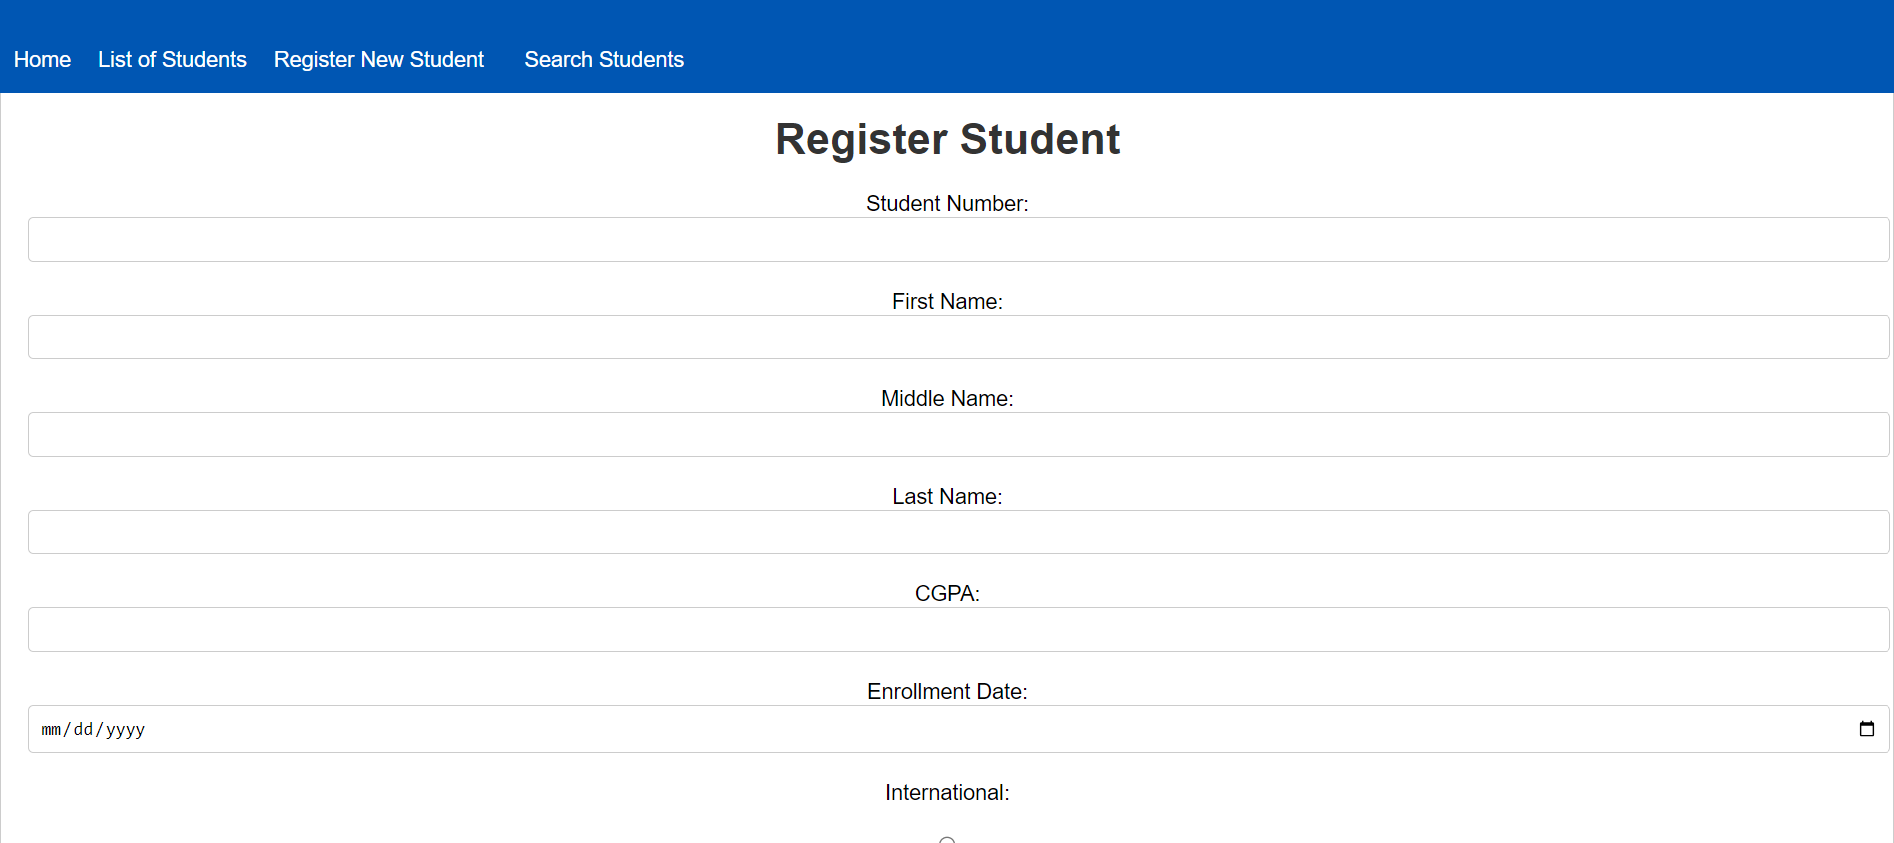
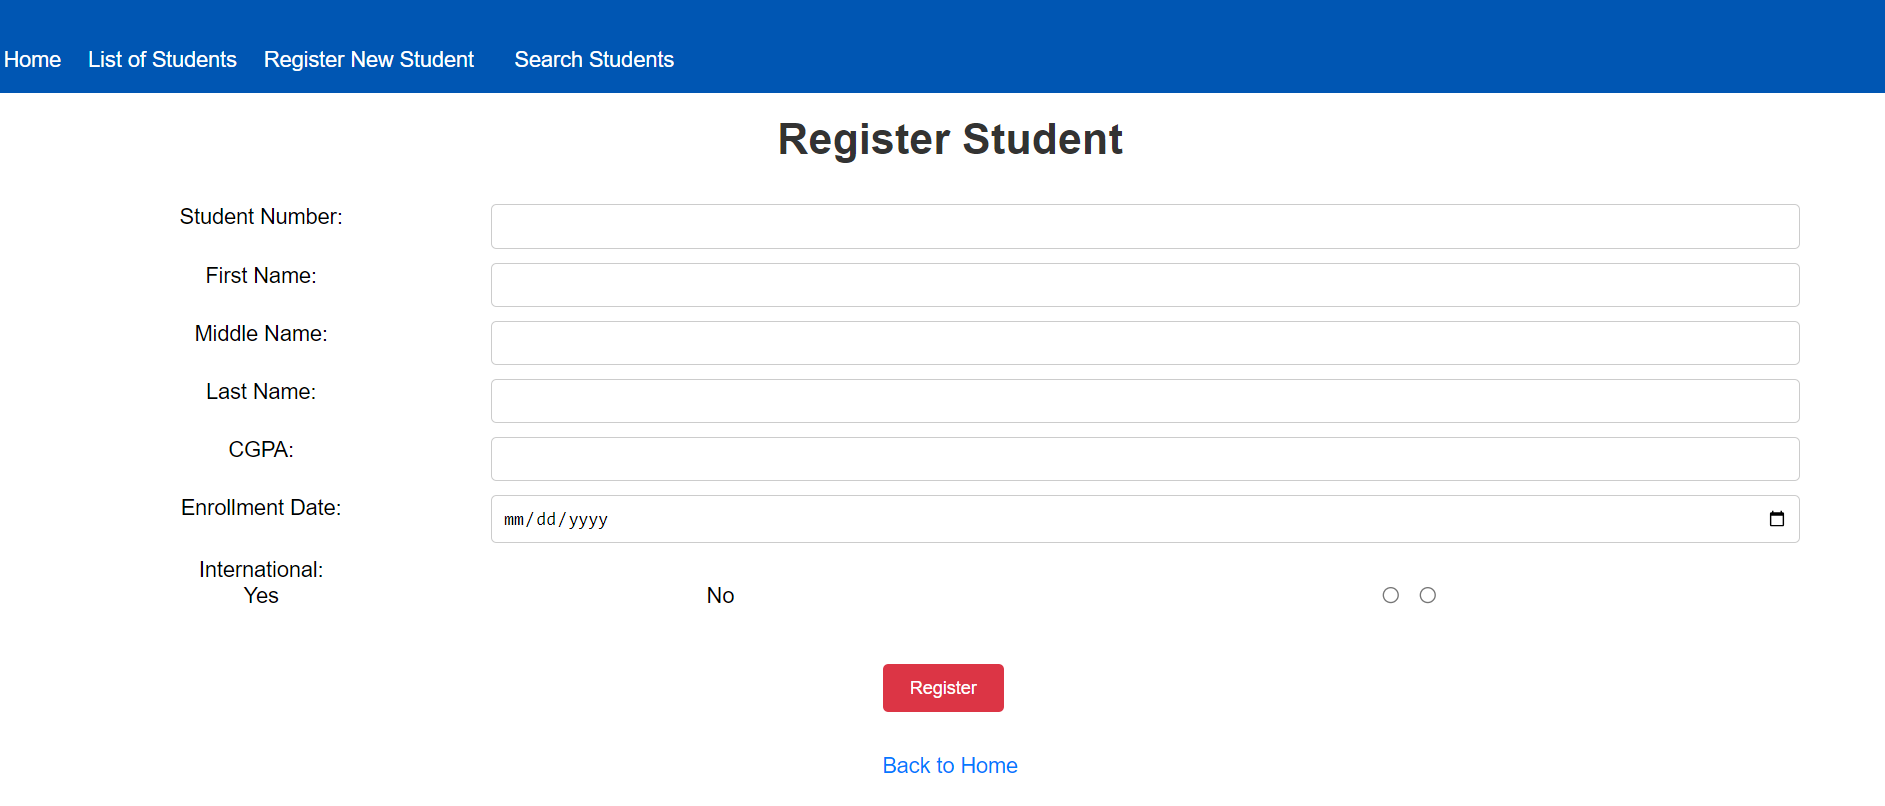
final commit

diff --git a/src/main/resources/static/css/styles.css b/src/main/resources/static/css/styles.css
@@ -275,3 +275,22 @@ ul.nav li a:link, ul.nav li a:visited{
 ul.nav li a:hover{
     color: #c82333;
 }
+/*  Form customization */
+.form-group {
+    margin-bottom: 20px;
+    clear: both;
+    padding: 10px;
+}
+.form-group label{
+    float: left;
+    width: 25%;
+}
+
+.form-group .form-control {
+    /* float: left; */
+
+}
+input[type="text"], input[type="number"], input[type="date"] {
+    float: left;
+    width: 70%;
+}
